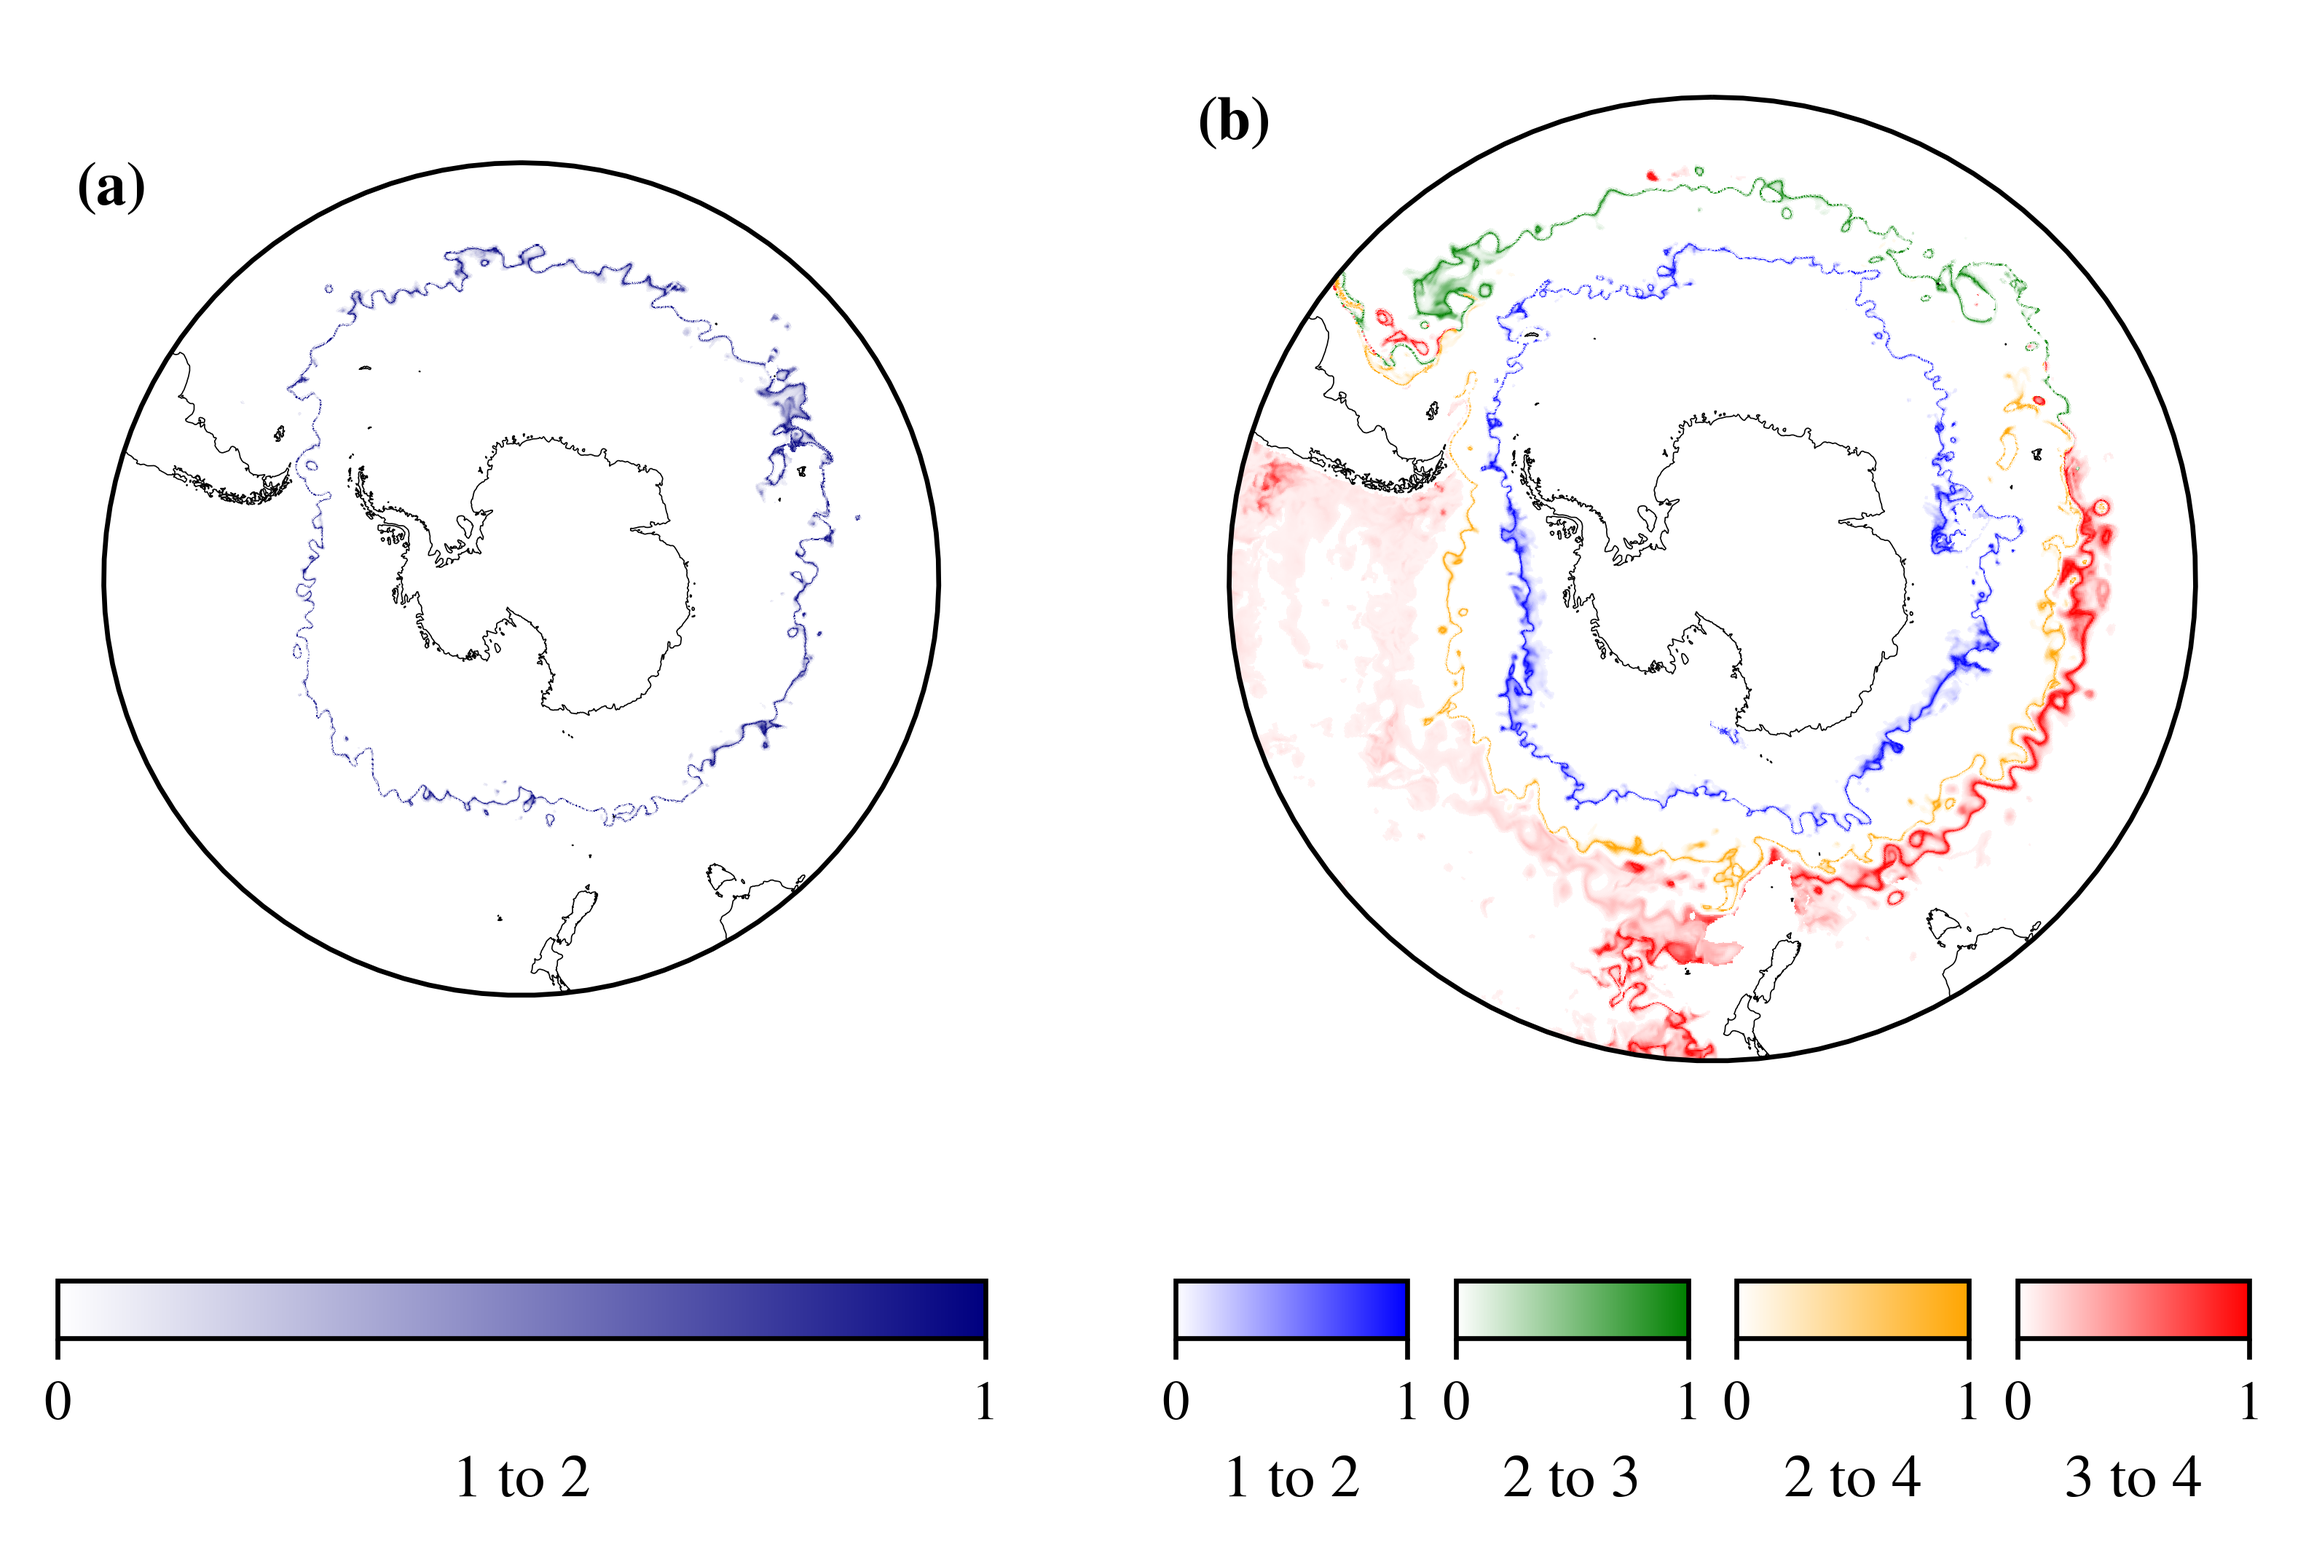
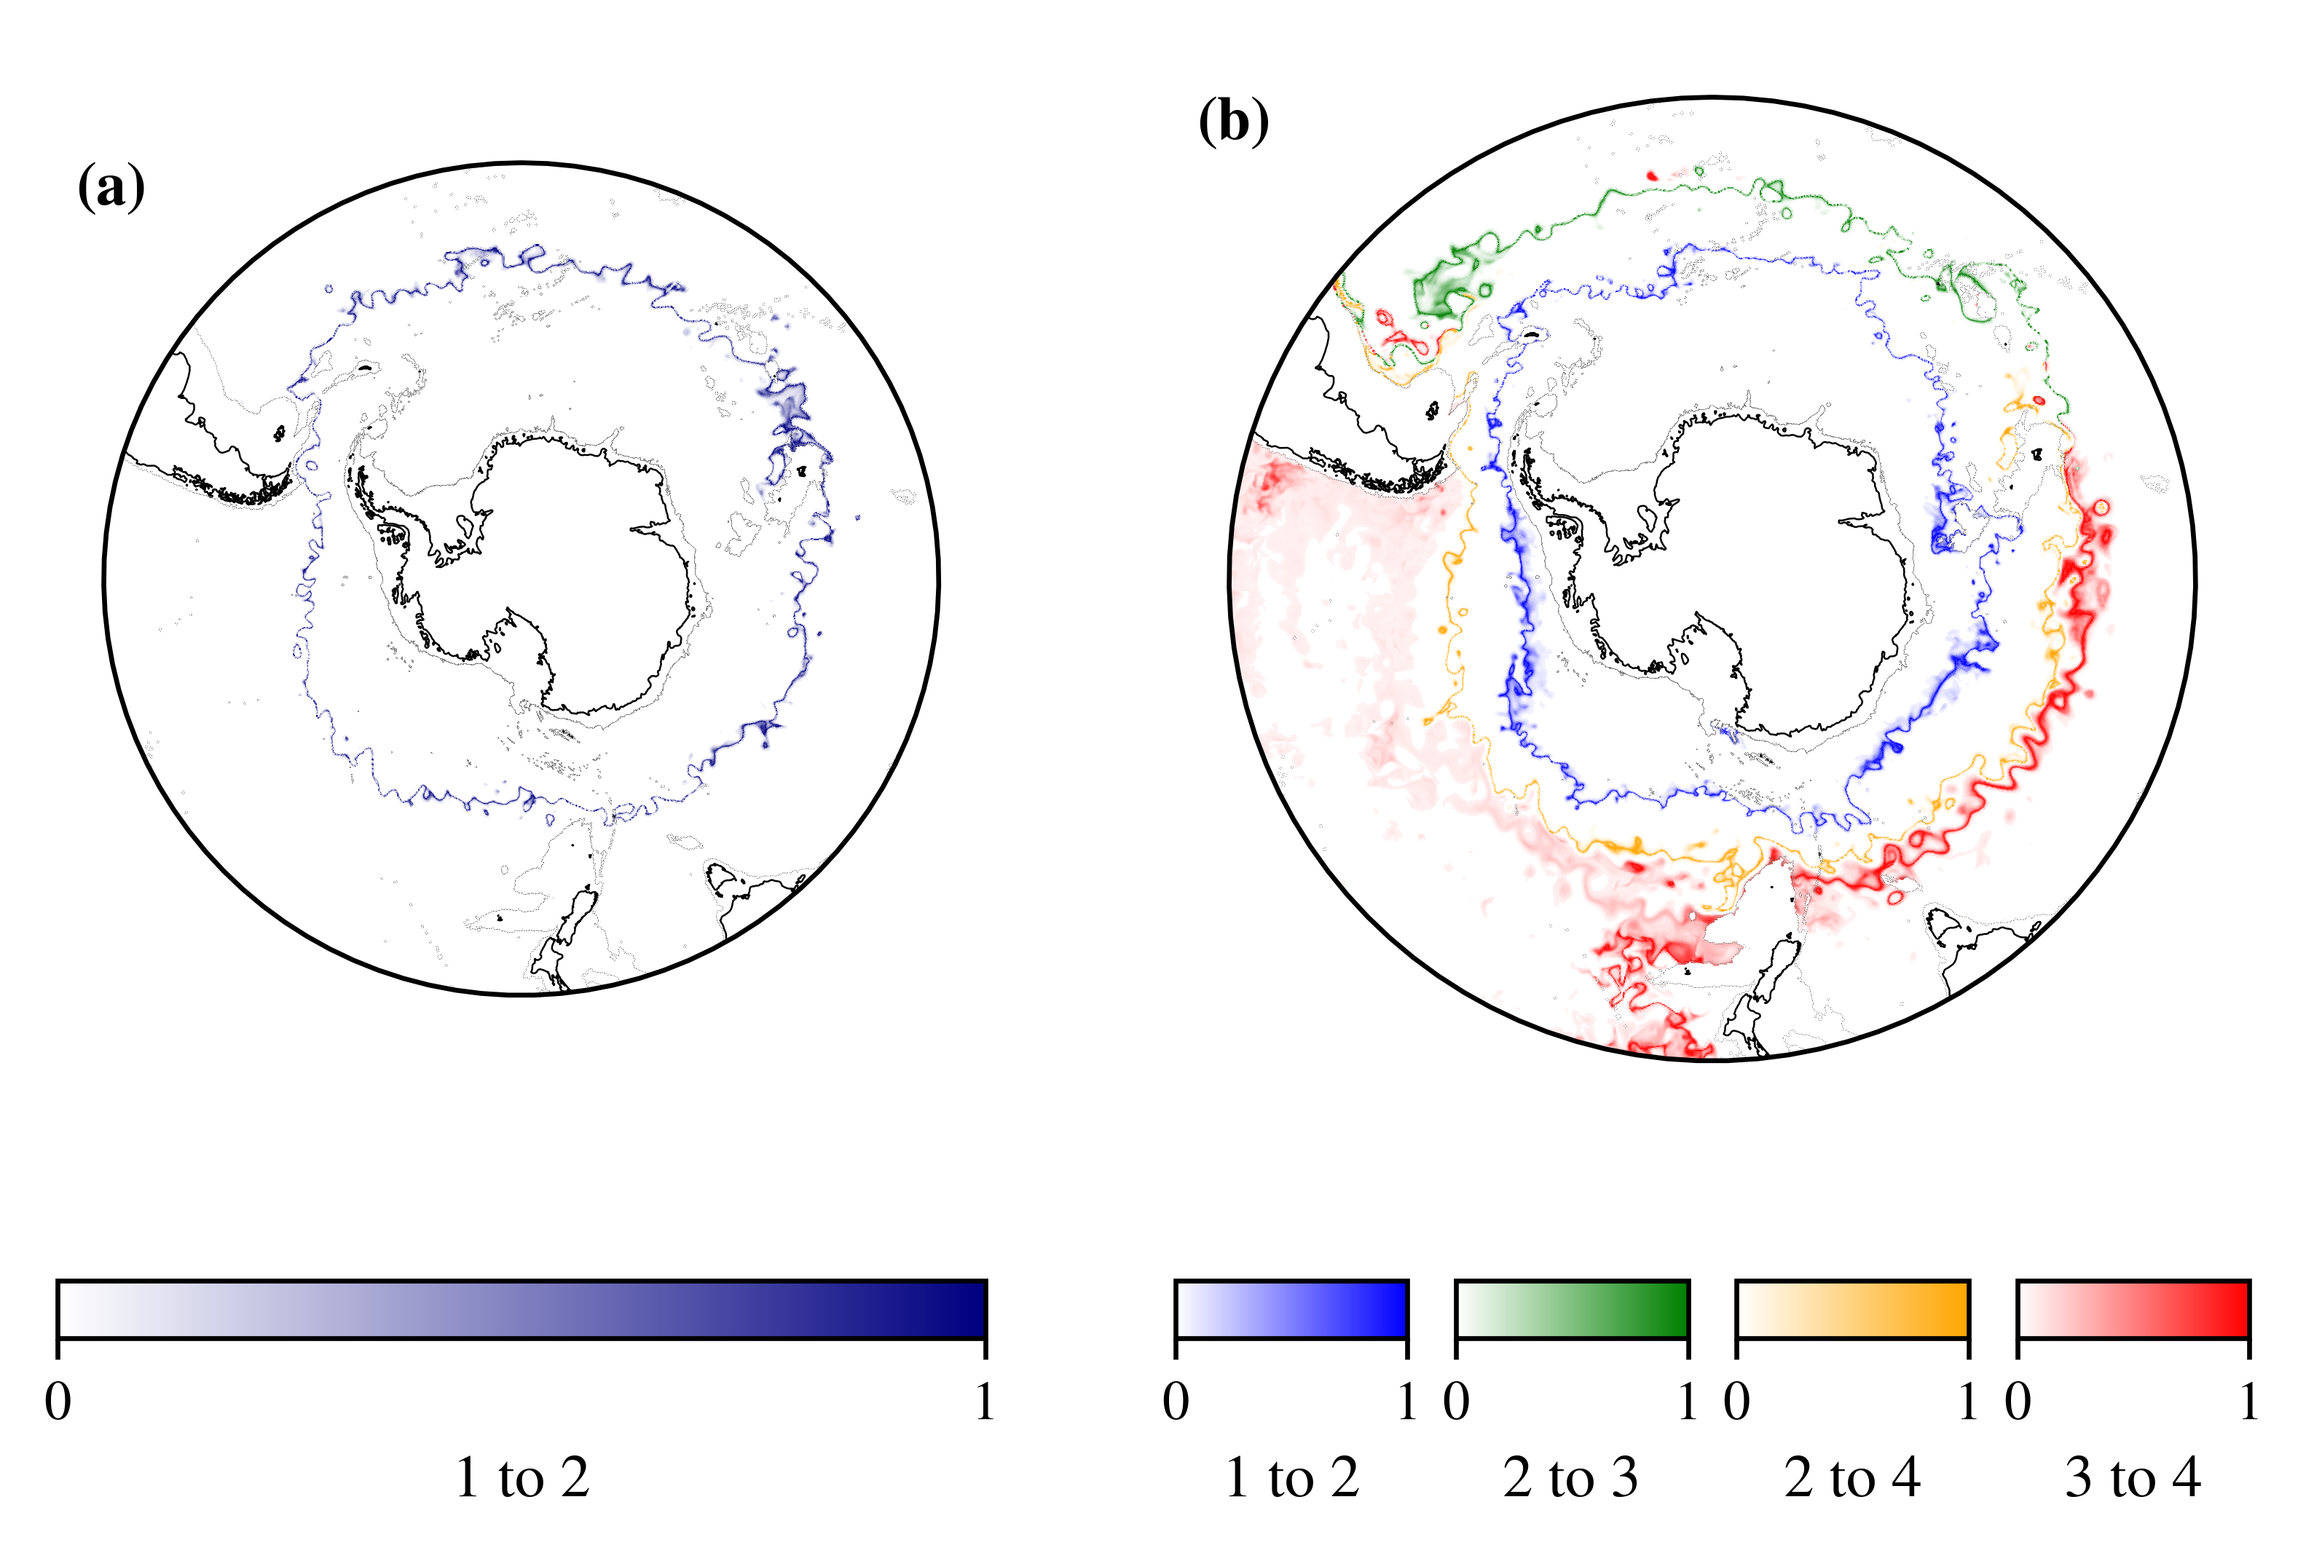
ext: map working better

diff --git a/src/make_figures.py b/src/make_figures.py
@@ -124,6 +124,8 @@ def make_all_figures() -> None:
             ds.IMETRIC.isel(Imetric=0).mean(dim=cst.T_COORD, skipna=True),
         ],
         [r"$\mathcal{I}$-metric ", r"$\mathcal{I}$-metric"],
+        [[0.0, 1.0], [0.0, 1.0]],
+        ["viridis", "viridis"],
     )
     imetric_dual_name = os.path.join(
         cst.FIGURE_PATH, "RUN_" + cst.RUN_NAME + "_i_metric_dual.png"
@@ -225,7 +227,7 @@ def make_all_figures() -> None:
 
     cor_list = []
 
-    for time_i in range(0, 60):
+    for time_i in range(len(uvel_ds.coords[cst.T_COORD].values)):
         cor = ma.corrcoef(
             ma.masked_invalid(uvel_ds.isel(time=time_i).UVEL.values.ravel()),
             ma.masked_invalid(pca_ds.isel(time=time_i).PCA_VALUES.values.ravel()),
@@ -266,7 +268,7 @@ def make_all_figures() -> None:
 
     cor_list = []
 
-    for time_i in range(0, 60):
+    for time_i in range(len(uvel_ds.coords[cst.T_COORD].values)):
         cor = ma.corrcoef(
             ma.masked_invalid(vvel_ds.isel(time=time_i).VVEL.values.ravel()),
             ma.masked_invalid(pca_ds.isel(time=time_i).PCA_VALUES.values.ravel()),

diff --git a/src/plot_utils/map.py b/src/plot_utils/map.py
@@ -42,7 +42,7 @@ def southern_ocean_axes_setup(
         ax.set_boundary(circle, transform=ax.transAxes)
 
     plot_boundary()
-    ax.coastlines(resolution="50m", linewidth=0.2)
+    ax.coastlines(resolution="50m", linewidth=0.3)
 
     @jit(cache=True)  # significant performance enhancement.
     def find_isobath(
@@ -82,4 +82,4 @@ def southern_ocean_axes_setup(
     lons = xr.open_dataset(cst.SALT_FILE)[cst.X_COORD].values[index_npa[:, 1]]
     lats = xr.open_dataset(cst.SALT_FILE)[cst.Y_COORD].values[index_npa[:, 0]]
 
-    ax.plot(lons, lats, ",", markersize=0.05, color="grey", transform=ccrs.Geodetic())
+    ax.plot(lons, lats, ",", markersize=0.4, color="grey", transform=ccrs.Geodetic())

diff --git a/src/plot_utils/gen_panels.py b/src/plot_utils/gen_panels.py
@@ -69,7 +69,8 @@ def time_title(
     Args:
         ax (matplotlib.axes.Axes): axis to add title to.
         time (Union[np.datetime64, float, cftime.Datetime360Day]): time string.
-        date_time_formatter (str, optional): Default is
+        date_time_formatter (str, optional): Default is "%Y-%m-%d".
+
     Example:
         Usage with an xarray.Datarray object::
             >>> time_title(ax, xr_da.time.values[index])

diff --git a/src/plot/i_map.py b/src/plot/i_map.py
@@ -150,6 +150,6 @@ def map_imetric(da_i: xr.DataArray, da: xr.DataArray) -> None:
             mp.southern_ocean_axes_setup(ax1, fig)
             ax1.set_title("")
             ko.draw_fronts_kim(ax1)
-            ax1.legend()
+            ax1.legend(loc="lower right")
 
     gp.label_subplots(primary_axes_list)

diff --git a/src/plot/profiles.py b/src/plot/profiles.py
@@ -147,7 +147,7 @@ def plot_profiles(ds: xr.Dataset) -> None:
 
     plot_part("salt_mean", "salt_std")
 
-    ax2.set_xlabel(r"Salinity, $S$ / PSU")
+    ax2.set_xlabel(r"Salinity, $S$ (PSU)")
     ax2.set_ylim(ylim)
     ax2.set_yticks([])
     plt.setp(ax2.get_yticklabels(), visible=False)
